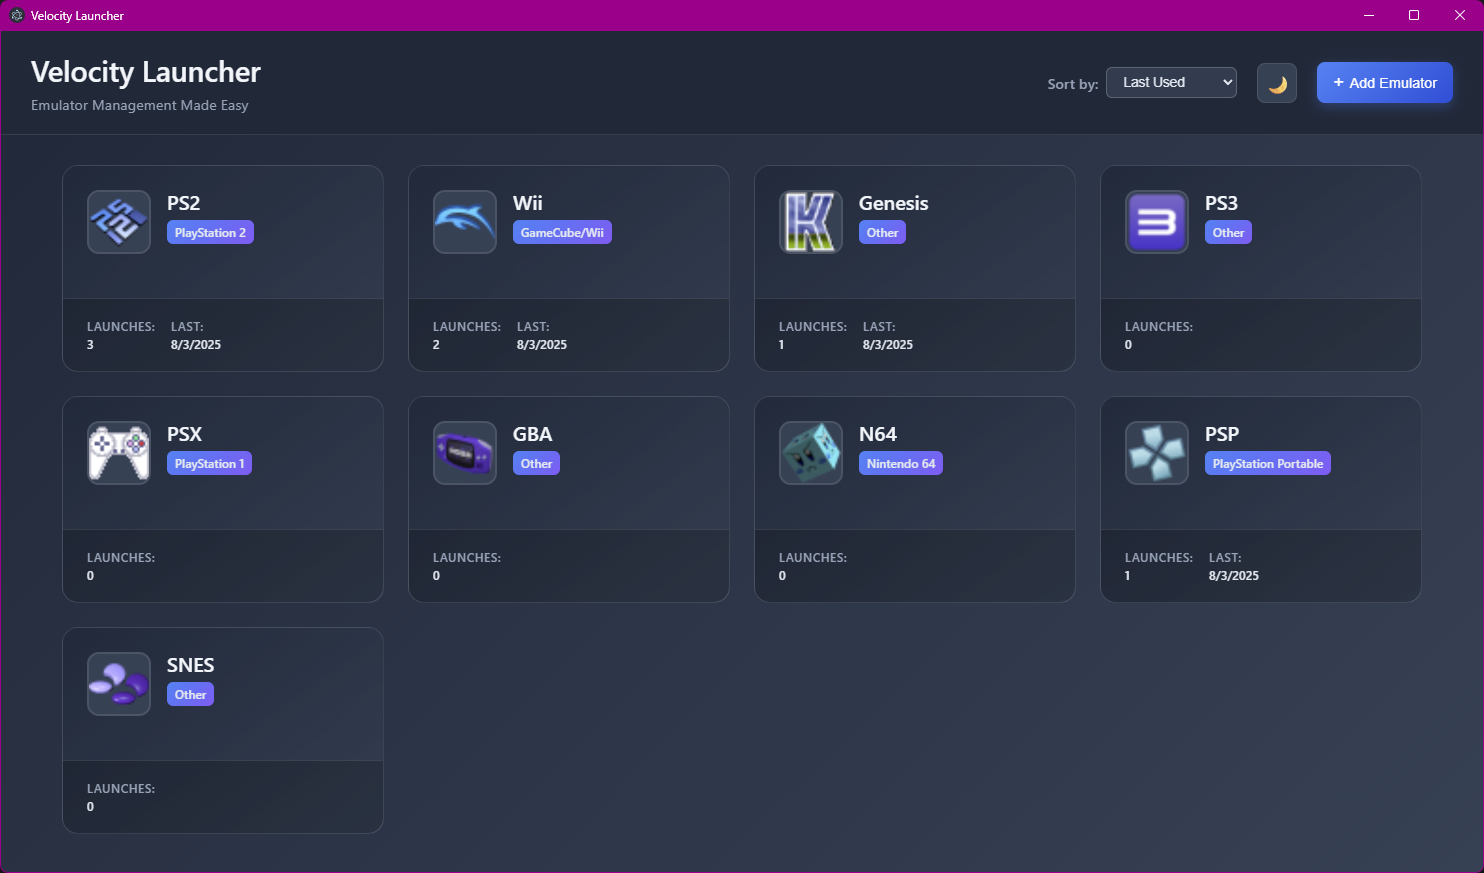
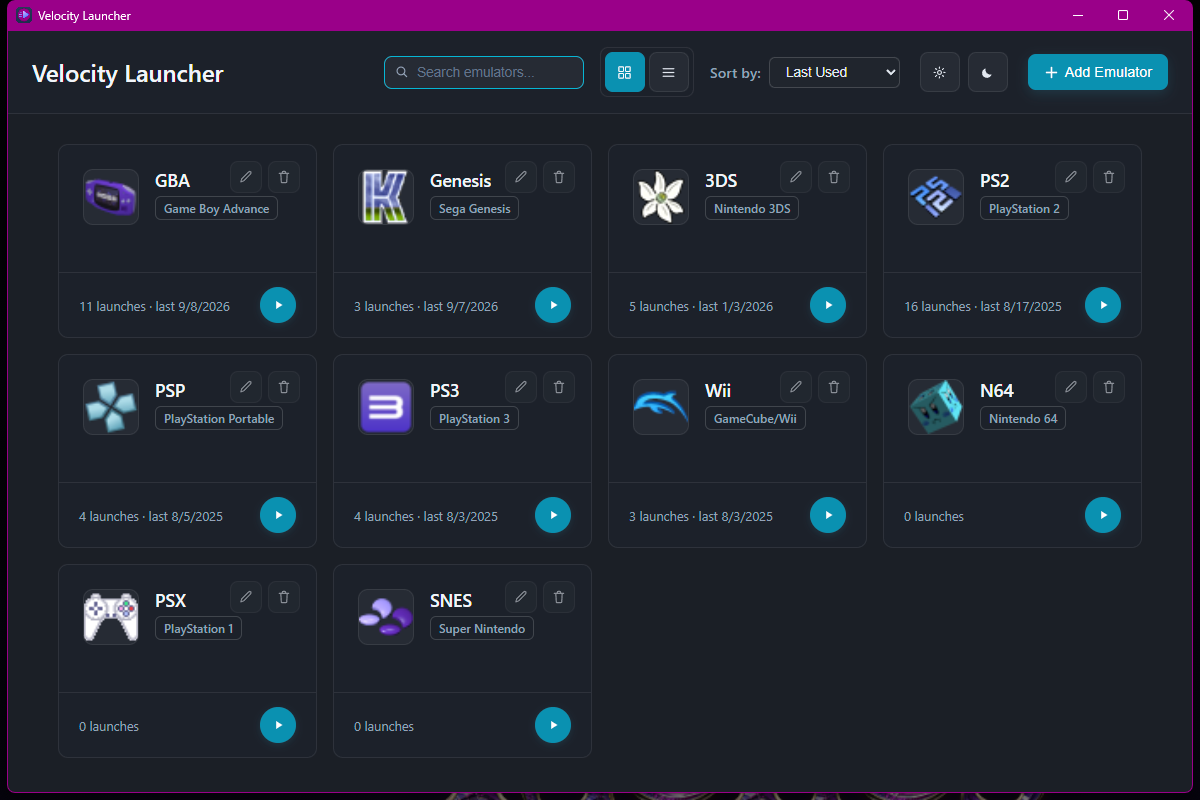
docs: Refresh README with current screenshots and accurate descriptions
The screenshots were from before this session's UI redesign (still
showing the old blue/purple gradient look), and several feature
descriptions had drifted from reality: edit/delete were described as
emoji buttons (now SVG icons), search/grid-density/description
toggles and the searchable System Type combobox weren't mentioned at
all, and the clone instructions had you `cd` into a directory name
that doesn't match the actual repo. Also drops the now-false "UI icons
from the system emoji set" acknowledgment.

Claude-Session: https://claude.ai/code/session_01YKMgPujDmBtXkBiwHbvne9

diff --git a/README.md b/README.md
@@ -9,12 +9,14 @@ _Velocity Launcher's clean, dark-themed interface_
 
 - **🎮 Universal Emulator Support** - Launch any emulator with custom arguments and working directories
 - **🖼 Automatic Icon Extraction** - Beautiful icons extracted directly from your emulator executables
+- **🔍 Search & Sort** - Find an emulator instantly, or sort by name, date added, last launched, launch count, or system type
 - **🔒 Security First** - Built with comprehensive security protections against malicious input
-- **🎨 Beautiful Interface** - Modern dark theme with responsive grid layout
+- **🎨 Clean, Modern Interface** - Flat dark/light theme with a single accent color, grid or list view, and adjustable card density
+- **⌨ Keyboard Friendly** - Full modal focus management and screen-reader labels throughout
 - **📊 Usage Tracking** - Keep track of launch counts and last played dates
-- **🔧 Easy Configuration** - Simple forms for adding and editing emulators
+- **🔧 Easy Configuration** - A searchable system-type field instead of scrolling a giant dropdown
 - **🌙 Theme Support** - Auto, light, and dark themes that follow your system preferences
-- **📂 Smart Organization** - Sort by name, date added, last launched, launch count, or emulator type
+- **⬇ Quiet Updates** - Auto-updates install silently in the background, no wizard, no clicks
 
 ## 🚀 Quick Start
 
@@ -38,15 +40,15 @@ _Velocity Launcher's clean, dark-themed interface_
 1. **Click "Add Emulator"** on the main screen
 2. **Fill in the details**:
    - **Name**: Display name for your emulator (e.g., "PlayStation 2")
-   - **Type**: Select from popular emulator types or choose "Other"
+   - **Type**: Type to search - the system type field filters as you go instead of scrolling a giant dropdown
    - **Description**: Optional description for your setup
    - **Executable Path**: Browse to your emulator's .exe file
    - **Arguments**: Optional command-line arguments for the emulator
    - **Working Directory**: Optional working directory (usually the emulator's folder)
 
-![Add Emulator Dialog](docs/images/add-emulator-dialog.png)
+![Searching for a system type](docs/images/add-emulator-dialog.png)
 
-_Easy emulator configuration_
+_Type to filter the system type instead of scrolling a 50-option dropdown_
 
 3. **Click "Add Emulator"** to save
 
@@ -55,22 +57,22 @@ _Easy emulator configuration_
 ### Launching Games
 
 - **Click any emulator card** to launch the emulator instantly
-- **Use the play button** (▶) for explicit launching
+- **Use the play button** for explicit launching
 - **View launch statistics** including launch count and last played date
 
 ### Managing Emulators
 
-- **Edit**: Click the ⚙ button to modify emulator settings
-- **Delete**: Click the 🗑 button to remove an emulator
+- **Edit**: Click the pencil icon to modify emulator settings
+- **Delete**: Click the trash icon to remove an emulator (with a confirmation prompt)
+- **Search**: Type in the search box to filter your collection instantly
 - **Sort**: Use the dropdown to organize by name, date, usage, or type
-
-![Emulator Grid](docs/images/emulator-grid.png)
-_Your emulator collection at a glance_
 
 ### Customization
 
 - **Theme Toggle**: Click the theme button to cycle between Auto/Light/Dark modes
-- **Grid Layout**: Responsive cards that adapt to your window size
+- **Grid or List View**: Switch between a card grid and a compact list
+- **Card Size**: Adjust grid density (small/medium/large) in Settings → Appearance
+- **Descriptions**: Show or hide emulator descriptions on cards in Settings → Appearance
 - **Sorting Options**: Keep your collection organized how you prefer
 
 ## ⚙ Configuration
@@ -116,6 +118,7 @@ Velocity Launcher is built with security as a top priority:
 - **Process Security**: Emulator launches use secure process spawning
 - **Content Security**: Built-in XSS protection and Content Security Policy
 - **Secure Icon Extraction**: Safe PowerShell execution for extracting emulator icons
+- **Tested**: Security-critical validation logic (path checks, argument sanitization, storage validation) has automated test coverage, and CI runs the full suite before every release
 
 ## 🛠 Development
 
@@ -125,7 +128,7 @@ Velocity Launcher is built with security as a top priority:
 
    ```bash
    git clone https://github.com/Patonero/velocity.git
-   cd velocity-launcher
+   cd velocity
    ```
 
 2. **Install dependencies**:
@@ -210,7 +213,6 @@ This project is licensed under the MIT License - see the [LICENSE](LICENSE) file
 ## 🙏 Acknowledgments
 
 - Built with [Electron](https://www.electronjs.org/) for cross-platform desktop development
-- UI icons from the system emoji set
 - Inspired by modern launcher applications and the retro gaming community
 
 ---
